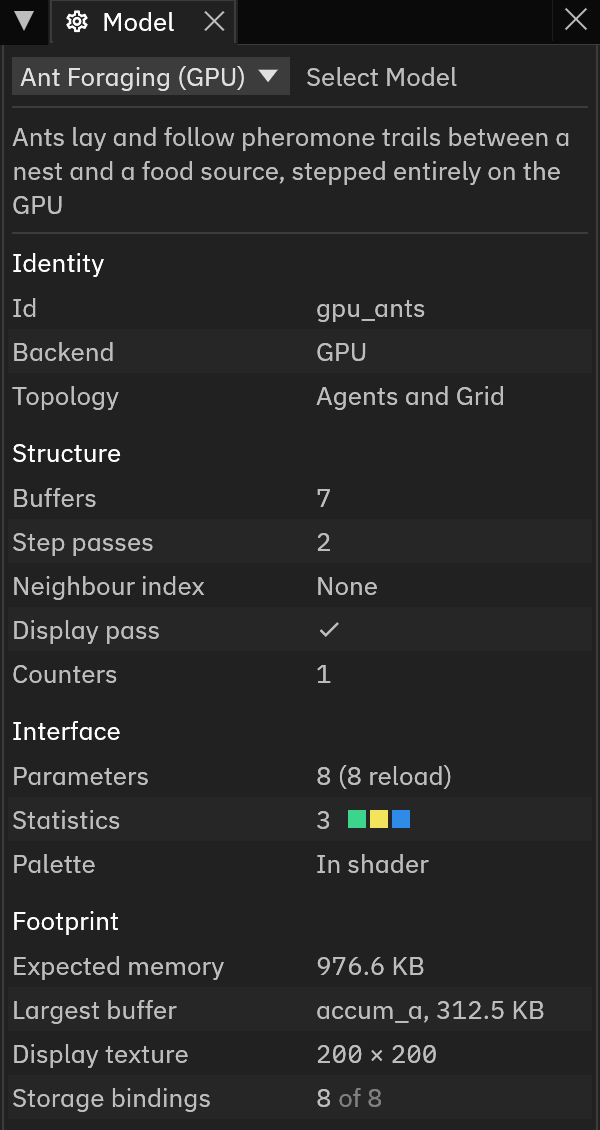
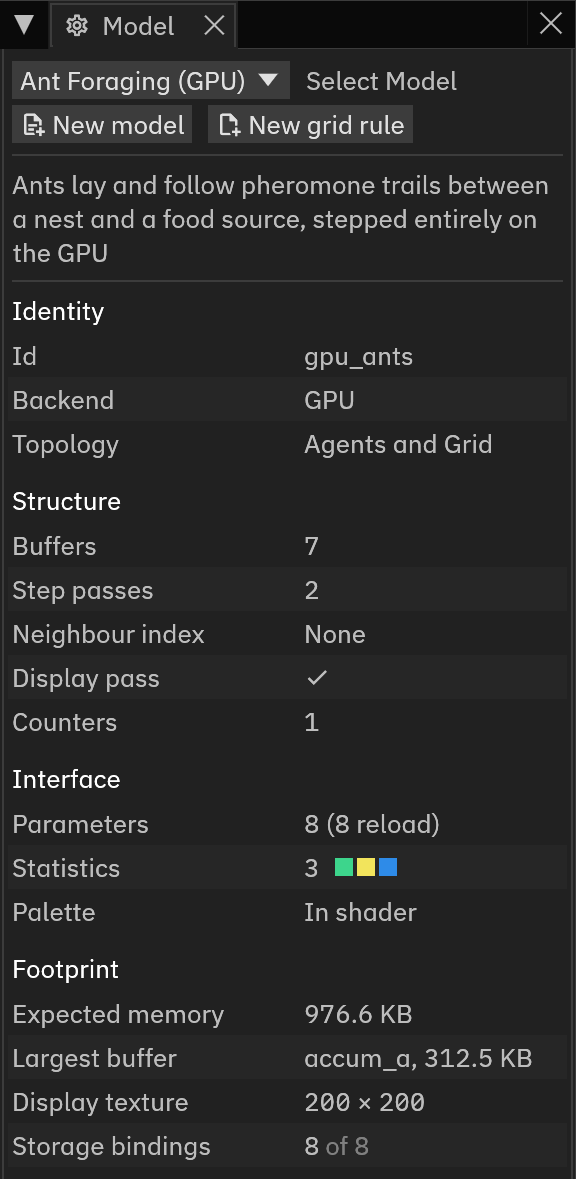
docs: guide after restyle

diff --git a/crates/henad-graph/src/tests/sheet_sentence.rs b/crates/henad-graph/src/tests/sheet_sentence.rs
@@ -631,6 +631,10 @@ fn every_wording_table_entry_equals_the_final_words() {
             fixed(sentence::SET_IN_REPEAT),
         ),
         (
+            "A look around, a count or a pick of a cell cannot sit inside a Repeat.",
+            fixed(sentence::LOOK_IN_REPEAT),
+        ),
+        (
             "An arrow cannot be compared with a number. Compare its length instead.",
             fixed(sentence::ARROW_COMPARED_WITH_NUMBER),
         ),

diff --git a/docs/guide/editor.md b/docs/guide/editor.md
@@ -31,15 +31,32 @@ Untick **Open models in the Editor layout** in the View menu to open the Editor 
 - Press <span class="ui" markdown>:material-graph-outline: New node graph</span> in the Editor and pick an example to open it as a node graph: Game of Life, Vote or SIR Epidemic on a grid, or Boids Flocking, Ant Foraging or Random Walk of agents.
 - In the menu bar, <span class="ui" markdown>:material-file-outline: File</span> holds New model, New grid rule, New node graph, Open model and Save model, and <span class="ui" markdown>:material-view-dashboard-outline: View</span> toggles the Editor like any other tab and switches between the default layout and the Editor layout.
 
+The Editor's header holds <span class="ui" markdown>:material-file-document-plus-outline: New model</span>, <span class="ui" markdown>:material-file-plus-outline: New grid rule</span>, <span class="ui" markdown>:material-graph-outline: New node graph</span>, <span class="ui" markdown>:material-folder-open-outline: Open model</span> and <span class="ui" markdown>:material-tray-arrow-down: Save model</span>, and <span class="ui" markdown>:material-check: Apply</span> at the right end.
+The row under it shows the model's name, a dot while the model holds changes you have not saved, and the name of its file.
+For a sheet, the row also holds <span class="ui" markdown>:material-undo: Undo</span>, <span class="ui" markdown>:material-redo: Redo</span> and the **Model actions** menu.
+
+Under the panes, the Editor lists its messages: the state of the preview, the outcome of the last open, save or Apply, and each problem.
+Each message starts with a bar and an icon in the colour of its kind, blue for information, orange for a warning and red for an error.
+
 New model, New grid rule, New node graph and Open model replace the Editor's model, and so does Open in Editor in the Results tab.
 Edit model replaces it too, but keeps the model, your edits since the last Apply included, while the selected model runs the code the Editor applied last.
 While the model holds changes you have not saved since you opened or made it, a dialog names it first, such as **Game of Life has unsaved changes.**
 Press <span class="ui">Save model</span> to save it and then replace it, <span class="ui">Discard changes</span> to replace it without saving, or <span class="ui">Cancel</span> to keep it.
+
+![The Unsaved changes dialog reading Forest fire has unsaved changes, with Cancel, Discard changes and Save model](../assets/app/editor-unsaved.png){ width="446" }
+
 Closing the window of the desktop app asks the same, and the app closes once the model is saved or its changes discarded.
 Apply does not save the model, and a save you cancel keeps it in the Editor.
 A sheet converted to a node graph is held beside its copy, and the dialog names it too while it holds unsaved changes.
 
 ## Sheets
+
+<span class="ui" markdown>:material-file-document-plus-outline: New model</span> opens the **New model** dialog.
+Under **Start from** it lists **Blank**, then eight starters, each with a line on what it models: Game of Life, SIR epidemic, Majority vote and Forest fire on a grid of cells, and Random walk, Boids, Bounded confidence and Ant foraging of agents.
+While **Blank** is chosen, **What is the world made of?** under it picks **Cells on a grid** or **Agents in open space**.
+**Name** follows the choice until you type in it, and <span class="ui">Create</span> or <kbd>Enter</kbd> opens the model.
+
+![The New model dialog with Forest fire chosen under Start from, between the grid starters and the agent starters, and its name in the Name field](../assets/app/editor-new-model.png){ width="446" }
 
 A sheet opens in two panes beside each other.
 **Sheet** lists what the model holds: its purpose, the world, the cells' properties, the parameters, the measures, the colours and the buttons.
@@ -47,12 +64,15 @@ A sheet opens in two panes beside each other.
 The world itself runs in the <span class="ui" markdown>:material-cube-outline: Viewport</span>, and the Playback, Pacing, Parameters and Charts tabs control it as they control any model.
 Each heading has a help button with a short explanation and an example.
 
-![The Sheet pane of a forest fire and its card, where line 3 starts with otherwise and a notice above the card says why](../assets/app/editor-sheet.png){ width="710" }
+![The Editor holding a forest fire: the header with the name row, the Sheet pane, and the card, where line 5 starts with otherwise and a notice above the card says why](../assets/app/editor-sheet.png){ width="700" }
 
 Every change on either pane is one step of <span class="ui" markdown>:material-undo: Undo</span> and <span class="ui" markdown>:material-redo: Redo</span>, on the second row of the Editor's header beside the model's name.
-A click on the name renames the model, and a dot after the name says the model holds changes you have not saved.
+A click on the name renames the model.
 
 ### The Sheet pane
+
+The pane holds one framed section for each part of the model, its title in small capitals and its help button at the right end.
+A section that lists several things, such as the properties under **Cells** or the **Parameters**, lists them in a table under a row of column headings, and a button at its end adds one more, such as **+ Add parameter**.
 
 **World** sets the size of the grid in cells, its edges, and how much time one tick stands for.
 With **Wrap around**, the left edge joins the right edge and the top edge joins the bottom.
@@ -74,9 +94,12 @@ An average keeps the name it was given, such as "Average of Food", in step with 
 
 ### The Card pane
 
-Under the card's heading, a grey box holds the rule every line follows: everyone reads the world as it was at the start of the tick, all changes land together at the end of it, and whatever no line changes stays as it was.
+Each card is a frame with its heading, such as "Each tick, every cell", and its number of lines at the right end.
+Under the heading, a grey bar marks the rule every line follows: everyone reads the world as it was at the start of the tick, all changes land together at the end of it, and whatever no line changes stays as it was.
 
 A line either works out a result, which lines below it can use, or changes one of the cell's properties.
+A bar at the left of each line shows its kind by colour, as the square on each add button does: blue for a look around, purple for a chance, yellow for a yes or no, grey for a calculation, green for a change, and white for a When or a Repeat.
+Hover over the bar to read the kind.
 In a sentence, each chosen value is a *chip*: a result in blue, a state with its colour, a parameter with a slider mark, and "my" before a property in grey.
 An empty slot is a dashed *blank* that names what it wants, such as "state" or "old state".
 Hover over a result chip to highlight the line that works it out.
@@ -95,9 +118,12 @@ A button's card runs its lines once when the button is pressed, and offers **+ C
 ### Writing a line
 
 A new line's first blank opens its *picker*, which lists only what fits there, in groups.
+A picker opens as a framed list under its blank, titled with what it asks for, such as **Choose a value**, and a press on a filled chip opens it again.
 A number takes a typed number, a result of a line above, one of the cell's properties, a parameter, or **New parameter...**, which creates one in a dialog and puts it in the blank.
 A chance takes a number from 0 to 1 or a percent such as 30%, and refuses anything else as you type it.
 "is one of the numbers" takes a list, such as 2, 3, typed in one go.
+
+![The card of a forest fire with a When block at line 6, its value chip open on the Choose a value picker, which lists Burning neighbours from line 1, my Cover, three parameters and New parameter, over a box to type a number](../assets/app/editor-picker.png){ width="536" }
 
 After a choice the keyboard moves to the next blank of the line.
 An empty state blank opens by itself, as does the upper number of "is less than ... or more than ..." after the lower one.
@@ -178,7 +204,7 @@ When the length of one tick changes, a notice under the Time line names the line
 
 ### When blocks
 
-A *When block* is a When line and the lines inside it, indented one step.
+A *When block* is a When line and the lines inside it, indented one step, with a thin guide down the indent.
 The lines inside apply only to the cells for which the When's condition holds, and a When can hold another When.
 A When cannot be always.
 
@@ -192,7 +218,7 @@ A grey note under it says which condition it holds under, such as "Only when lin
 A result inside a When is still worked out for every cell, and only the lines after it inside that When can use it.
 An empty When says "Nothing inside yet."
 
-![A When on my Cover is Empty holding a When with chance 0.01, which holds a Become, each block ending with its add row](../assets/app/editor-when.png){ width="400" }
+![A When on my Cover is Empty holding a When with chance 0.01, which holds a Become, each block ending with its add row](../assets/app/editor-when.png){ width="530" }
 
 Two offers fold a When that holds no more than its lines need:
 
@@ -309,10 +335,10 @@ Inside a Repeat a Become counts the agents it changed, and every other change sh
 
 ### The Diagram
 
-Press **Diagram** beside the Card heading to draw each card as boxes and arrows in place of its lines.
+Press **Diagram**, beside **Lines** after the Card heading, to draw each card as boxes and arrows in place of its lines.
 Each line is a box with its sentence, the result it works out on its right, and on its left the results of lines above that it reads.
 An arrow runs from a result to every line that reads it, and a dashed frame labelled "Inside line N" surrounds the lines inside each When.
-The Diagram is read-only: edit the lines to change it, and press **Diagram** again to return to them.
+The Diagram is read-only: edit the lines to change it, and press **Lines** to return to them.
 
 ### Converting to a node graph
 

diff --git a/docs/guide/app.md b/docs/guide/app.md
@@ -11,7 +11,7 @@ Before we start, make sure you have [installed Henad](installation.md) and can [
 
 <figure markdown="span">
   ![The Henad window running Ant Foraging on the GPU](../assets/app/overview.png){ width="900" }
-<figcaption>Ant Foraging (GPU) at roughly 35,000 ticks per second.</figcaption>
+<figcaption>Ant Foraging (GPU) at roughly 30,000 ticks per second.</figcaption>
 </figure>
 
 ## Overview
@@ -49,6 +49,11 @@ An app built on Henad shows its own name there, and adds a **Built on** row with
 
 Henad has two layouts, and <span class="ui" markdown>:material-view-dashboard-outline: View</span> lists them under the tabs.
 
+<figure markdown="span">
+  ![The View menu, listing the 13 tabs with the open ones highlighted, then Default layout, Editor layout, the Open models in the Editor layout checkbox and Reset layout](../assets/app/view-menu.png){ width="232" }
+<figcaption>The View menu in the default layout.</figcaption>
+</figure>
+
 **Default layout**
 : For running a model, sweeping and reading results.
   The <span class="ui" markdown>:material-code-braces: Editor</span> is closed.
@@ -58,6 +63,11 @@ Henad has two layouts, and <span class="ui" markdown>:material-view-dashboard-ou
   The <span class="ui" markdown>:material-code-braces: Editor</span> takes most of the window, with <span class="ui" markdown>:material-flask-outline: Sweep</span> and <span class="ui" markdown>:material-chart-box-outline: Results</span> behind it.
   A column on the right holds the <span class="ui" markdown>:material-cube-outline: Viewport</span>, then <span class="ui" markdown>:material-play-circle-outline: Playback</span> with <span class="ui" markdown>:material-speedometer: Pacing</span> behind it, then <span class="ui" markdown>:material-chart-line: Charts</span> with <span class="ui" markdown>:material-tune: Parameters</span>, <span class="ui" markdown>:material-table: Statistics</span> and <span class="ui" markdown>:material-cog-outline: Model</span> behind it.
   Performance, System and Export are closed.
+
+<figure markdown="span">
+  ![The Editor layout with a forest fire sheet in the Editor on the left, and the Viewport, Playback and Charts in the column on the right](../assets/app/editor-layout.png){ width="900" }
+<figcaption>The Editor layout with the Forest fire starter, paused at tick 592 of its preview.</figcaption>
+</figure>
 
 Henad starts in the default layout.
 Each layout keeps your changes while the other one shows.
@@ -388,7 +398,7 @@ There are three types of statistics available:
 Every stat contributes a line to one time series, plotted against tick on an axis labelled **Tick**.
 For a model with a [time scale](../reference/model-files.md#time-scale), the axis reads in its unit, such as **Day**, and each sample sits at its tick times the length of one tick.
 The left axis always includes 0.
-A stat with one sample so far, as at tick 0, shows as a dot.
+A stat with one sample so far, as at tick 0, shows as a dot, and the axis then runs from that tick to the next.
 Each non-scalar stat is also plotted for the latest snapshot: an arrow from the origin for a vector, with a circle at its current magnitude, and a bar chart for a histogram.
 
 The charts are powered by [egui_plot](https://github.com/emilk/egui_plot).
@@ -1048,15 +1058,18 @@ It is closed in the default layout.
 When a model opens in it, from <span class="ui" markdown>:material-file-document-plus-outline: New model</span>, <span class="ui" markdown>:material-file-plus-outline: New grid rule</span> or <span class="ui" markdown>:material-code-braces: Edit model</span> in the Model tab or <span class="ui" markdown>:material-pencil-outline: Open in Editor</span> in the Results tab, Henad switches to the [Editor layout](#layouts) with the Editor in front.
 Select it in the View menu to open it in the layout that shows, to the right of the <span class="ui" markdown>:material-cube-outline: Viewport</span> in the default layout.
 
+The Editor's header holds <span class="ui" markdown>:material-file-document-plus-outline: New model</span>, <span class="ui" markdown>:material-file-plus-outline: New grid rule</span>, <span class="ui" markdown>:material-graph-outline: New node graph</span>, <span class="ui" markdown>:material-folder-open-outline: Open model</span> and <span class="ui" markdown>:material-tray-arrow-down: Save model</span>, with <span class="ui" markdown>:material-check: Apply</span> at the right end, over a row that names the model.
+Under the panes, the Editor lists its messages, each with a bar and an icon: blue for information, orange for a warning and red for an error.
+
 ### Sheets
 
 A *sheet* describes a model in sentences.
-Press <span class="ui" markdown>:material-file-document-plus-outline: New model</span> in the Editor, the Model tab or the File menu, choose a starter under **Start from** (Game of Life, SIR epidemic, Majority vote or Forest fire), type a name, and press **Create**.
-The **Name** field follows the starter's name until you type in it.
+Press <span class="ui" markdown>:material-file-document-plus-outline: New model</span> in the Editor, the Model tab or the File menu, choose **Blank** or one of the eight starters under **Start from**, such as Game of Life, Forest fire or Boids, type a name, and press **Create**.
+The **Name** field follows the choice until you type in it.
 
 The sheet opens in two panes.
 **Sheet** lists what every cell has and what the model holds: its purpose, the world, the cells' properties, the parameters, the measures, the colours and the buttons.
-**Card** lists the lines every cell follows each tick, numbered from 1, each as a sentence such as "Become Alive from Dead, when Alive neighbours is 3".
+**Card** lists the lines every cell, or every agent, follows each tick, numbered from 1, each as a sentence such as "Become Alive from Dead, when Alive neighbours is 3".
 In a sentence, each chosen value is a chip: a result in blue, a state with its colour, a parameter with a slider mark, and "my" before a property in grey.
 An empty slot is a dashed box that names what it wants, such as "old state".
 Hover over a result chip to highlight the line that works it out.
@@ -1065,7 +1078,7 @@ Press the help button beside a heading for a short explanation with an example.
 The world stays in the Viewport, Playback, Pacing, Parameters and Charts tabs.
 
 A sheet starts at a small size in the Viewport, paused at tick 0 with the start drawn.
-Press Play in the Playback tab to run it, and <span class="ui" markdown>:material-restart: Build</span> to start it again from tick 0 as it started before.
+Press Play in the Playback tab to run it, <span class="ui" markdown>:material-fast-forward: Run</span> beside [**Run to tick**](#run-to-tick) to run it to a tick, and <span class="ui" markdown>:material-restart: Build</span> to start it again from tick 0 as it started before.
 Once you select another model in the Model tab, Build builds that model instead.
 The tick counter says what a tick is: "Tick 4 (a tick is one step of time)".
 Press <span class="ui" markdown>:material-check: Apply</span> to install the model at its own size, and <span class="ui" markdown>:material-tray-arrow-down: Save model</span> to save the sheet as a model file.
@@ -1074,8 +1087,8 @@ A sheet that holds a problem still opens, with the problem under its line on the
 ### Grid rules
 
 The code fills the tab, with its line numbers in a gutter beside it, and long lines scroll sideways rather than wrap.
-Above it, <span class="ui" markdown>:material-file-plus-outline: New grid rule</span>, <span class="ui" markdown>:material-folder-open-outline: Open model</span> and <span class="ui" markdown>:material-tray-arrow-down: Save model</span> replace or save the text, and <span class="ui" markdown>:material-check: Apply</span> checks it and installs the rule.
-Below it, a list shows the outcome of the last Apply and each problem at its line and column.
+Above it, <span class="ui" markdown>:material-file-plus-outline: New grid rule</span>, <span class="ui" markdown>:material-folder-open-outline: Open model</span> and <span class="ui" markdown>:material-tray-arrow-down: Save model</span> in the header replace or save the text, and <span class="ui" markdown>:material-check: Apply</span> checks it and installs the rule.
+Below it, the Editor lists the outcome of the last Apply and each problem at its line and column.
 Press a problem to move the cursor to it.
 
 A text that fails the check leaves the running model alone.

diff --git a/agents/henad-graph-sheet.md b/agents/henad-graph-sheet.md
@@ -153,8 +153,8 @@ replacing it. The vote, forest fire, random walk and bounded confidence keep the
 as ids. henad-models' `no_starter_takes_the_id_of_an_example_model` holds every sheet and graph
 starter's id apart from `example_models()`. A sheet enters `sheets/` and `starters()` only in
 the milestone whose lowering runs it, and a test looping over `starters()` passes at every merge.
-The app's New model dialog lists only the starters whose world it offers (`starter_choices`), the
-grid sheets today. Until then a sheet is test data in `src/tests/sheets/`. `sir_chance.toml`,
+Until then a sheet is test data in `src/tests/sheets/`. The app's New model dialog lists Blank, then
+every starter, grid and agent alike (`starter_choices`). `sir_chance.toml`,
 `mobile_sir.toml` (chances once for each infected person nearby) and `sird.toml` (SIR with a Dead
 state, two competing rates of 0.05 per day out of Infected, its lines numbered in creation order)
 stay test data. `sir_chance.toml` and `sird.toml` have copies in henad-models'
